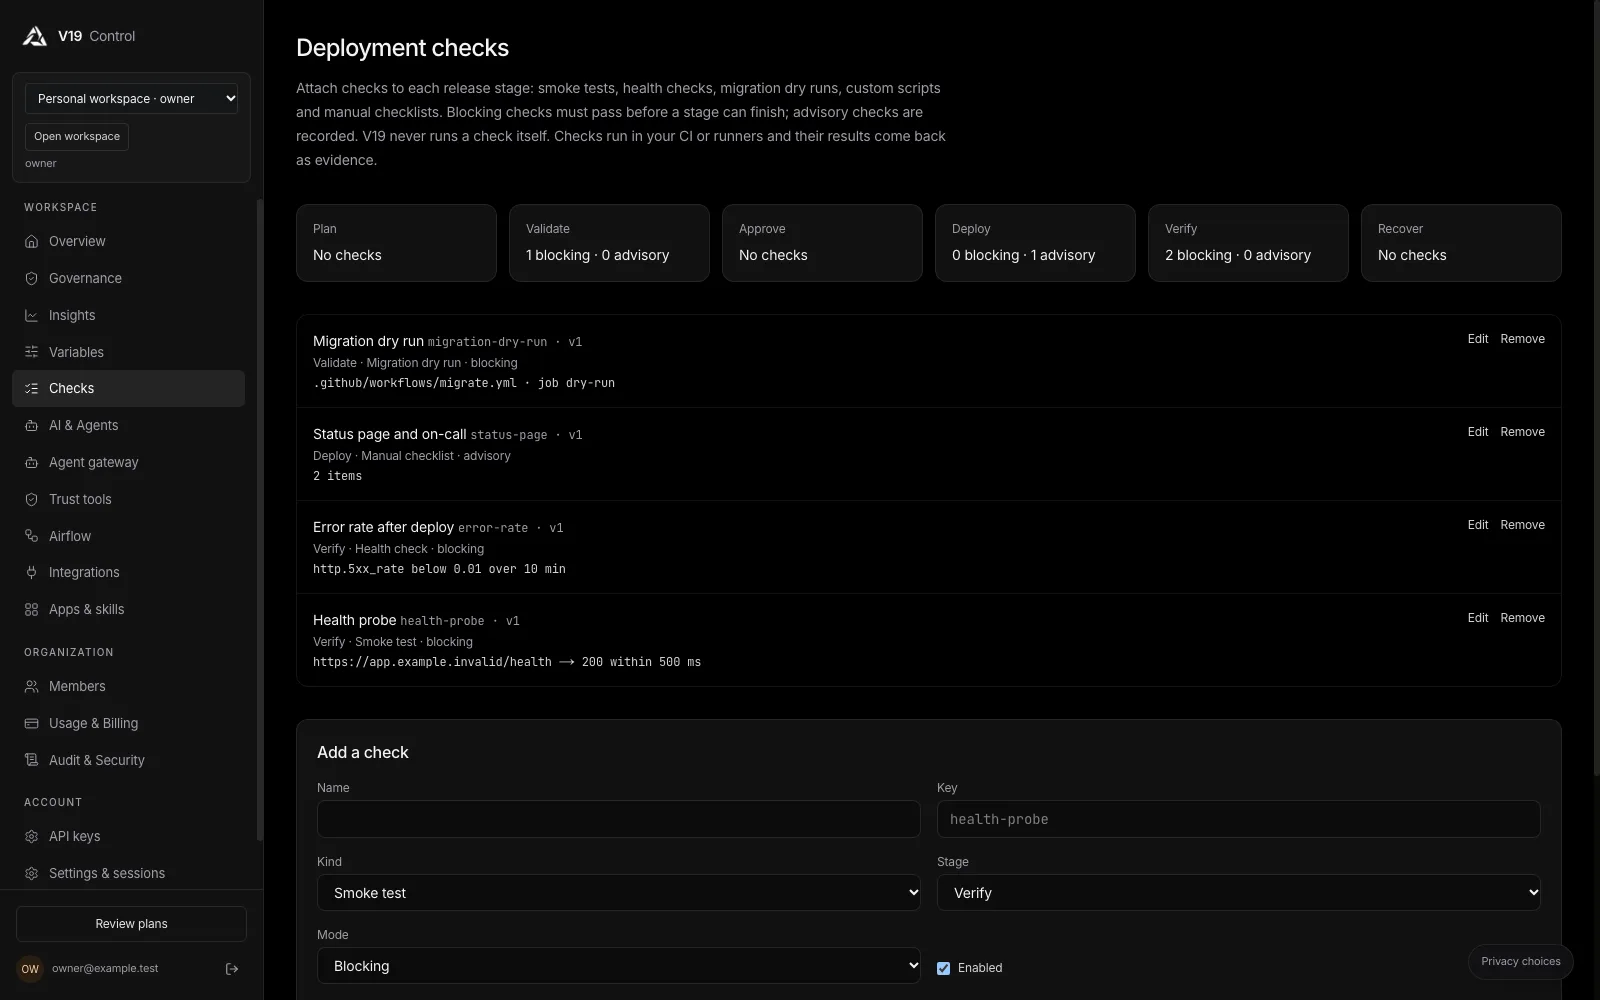
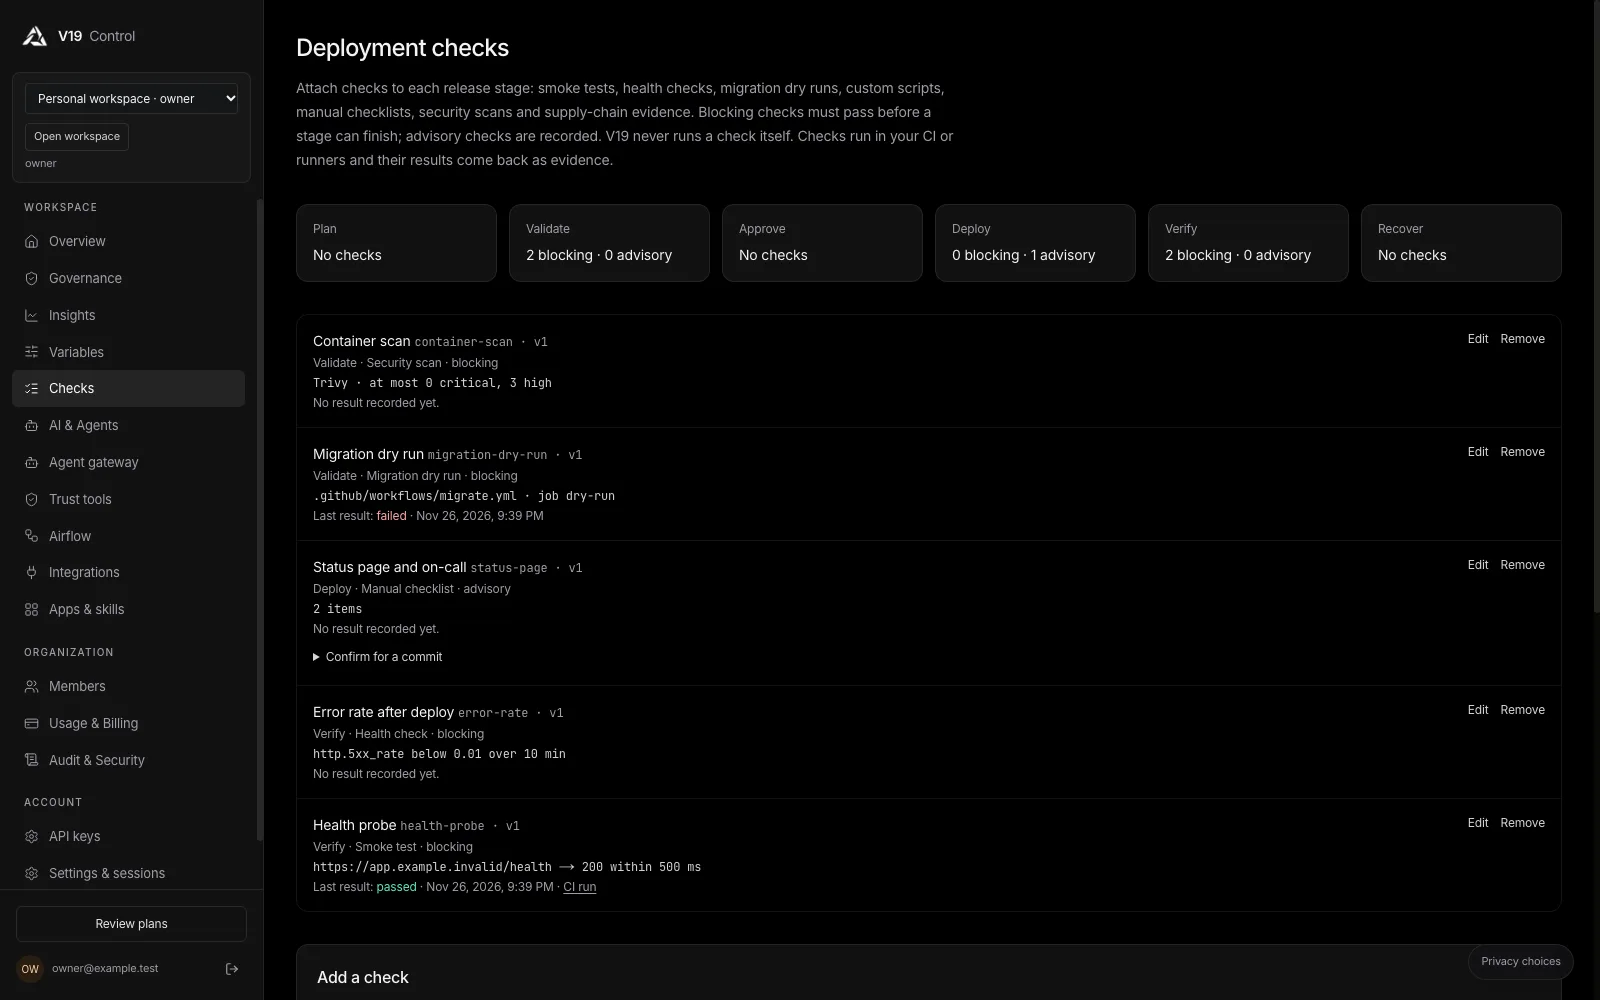
Checks page: list every check kind; refresh the checks image

diff --git a/app/control/checks/page.tsx b/app/control/checks/page.tsx
@@ -11,7 +11,7 @@ export default async function ChecksPage() {
   return (
     <div>
       <h1 className="text-3xl font-semibold tracking-[-0.045em]">Deployment checks</h1>
-      <p className="mt-3 max-w-2xl text-sm leading-6 text-zinc-400">Attach checks to each release stage: smoke tests, health checks, migration dry runs, custom scripts and manual checklists. Blocking checks must pass before a stage can finish; advisory checks are recorded. V19 never runs a check itself. Checks run in your CI or runners and their results come back as evidence.</p>
+      <p className="mt-3 max-w-2xl text-sm leading-6 text-zinc-400">Attach checks to each release stage: smoke tests, health checks, migration dry runs, custom scripts, manual checklists, security scans and supply-chain evidence. Blocking checks must pass before a stage can finish; advisory checks are recorded. V19 never runs a check itself. Checks run in your CI or runners and their results come back as evidence.</p>
       <ChecksBoard />
     </div>
   );
